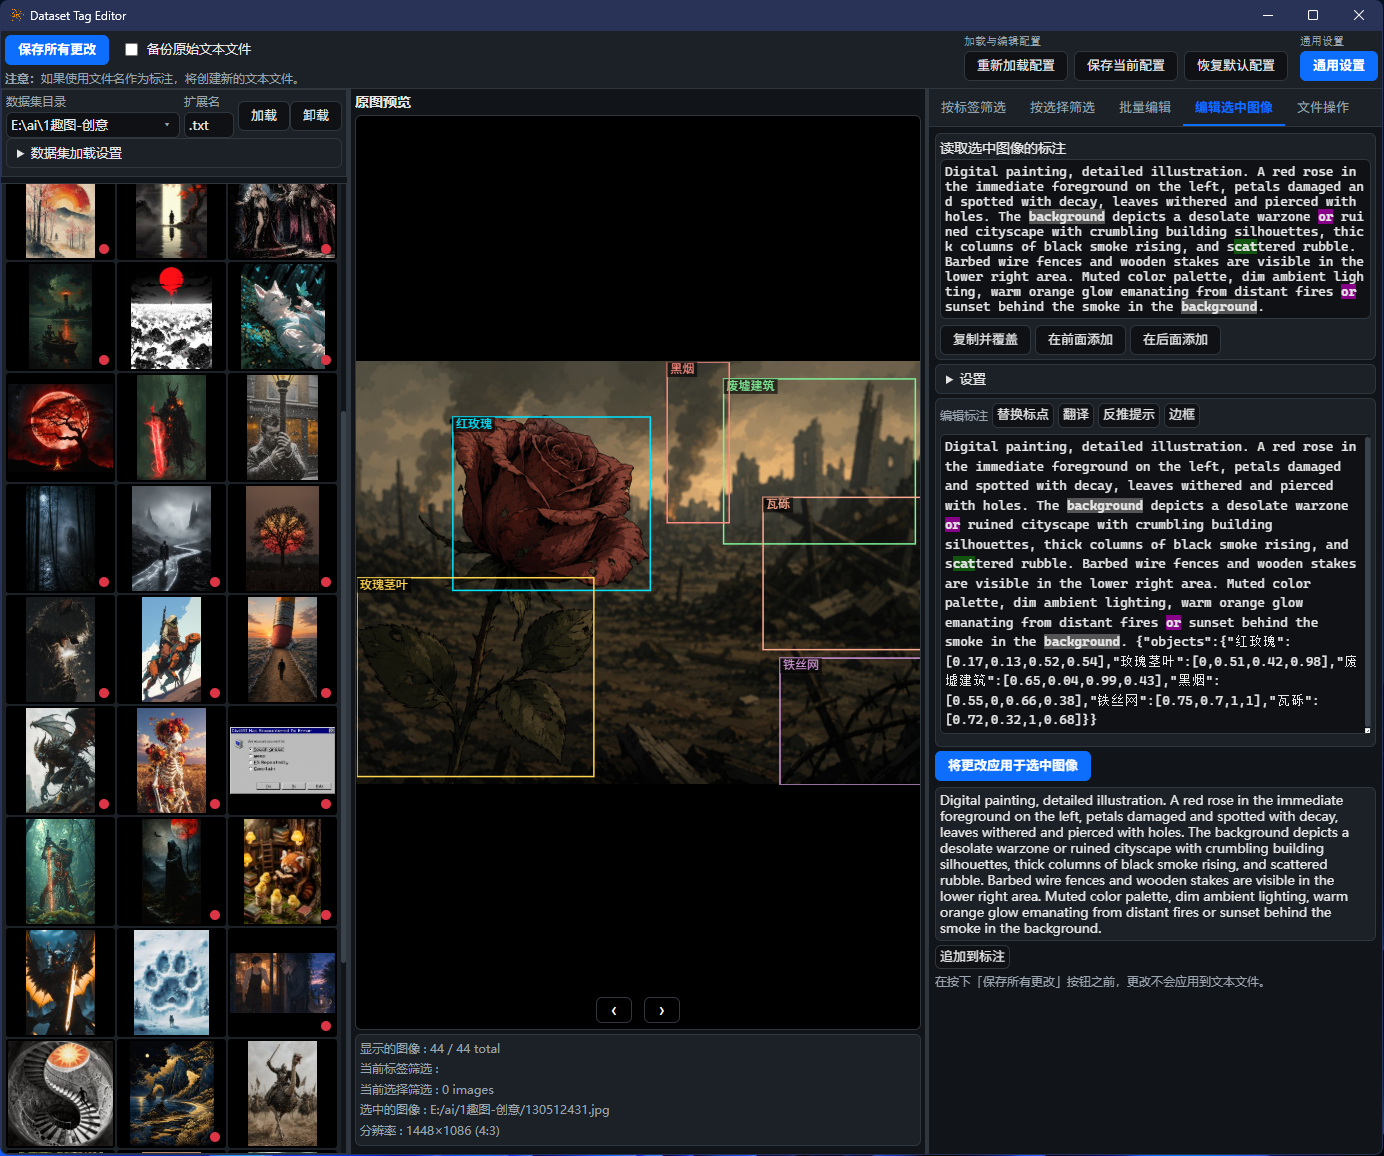
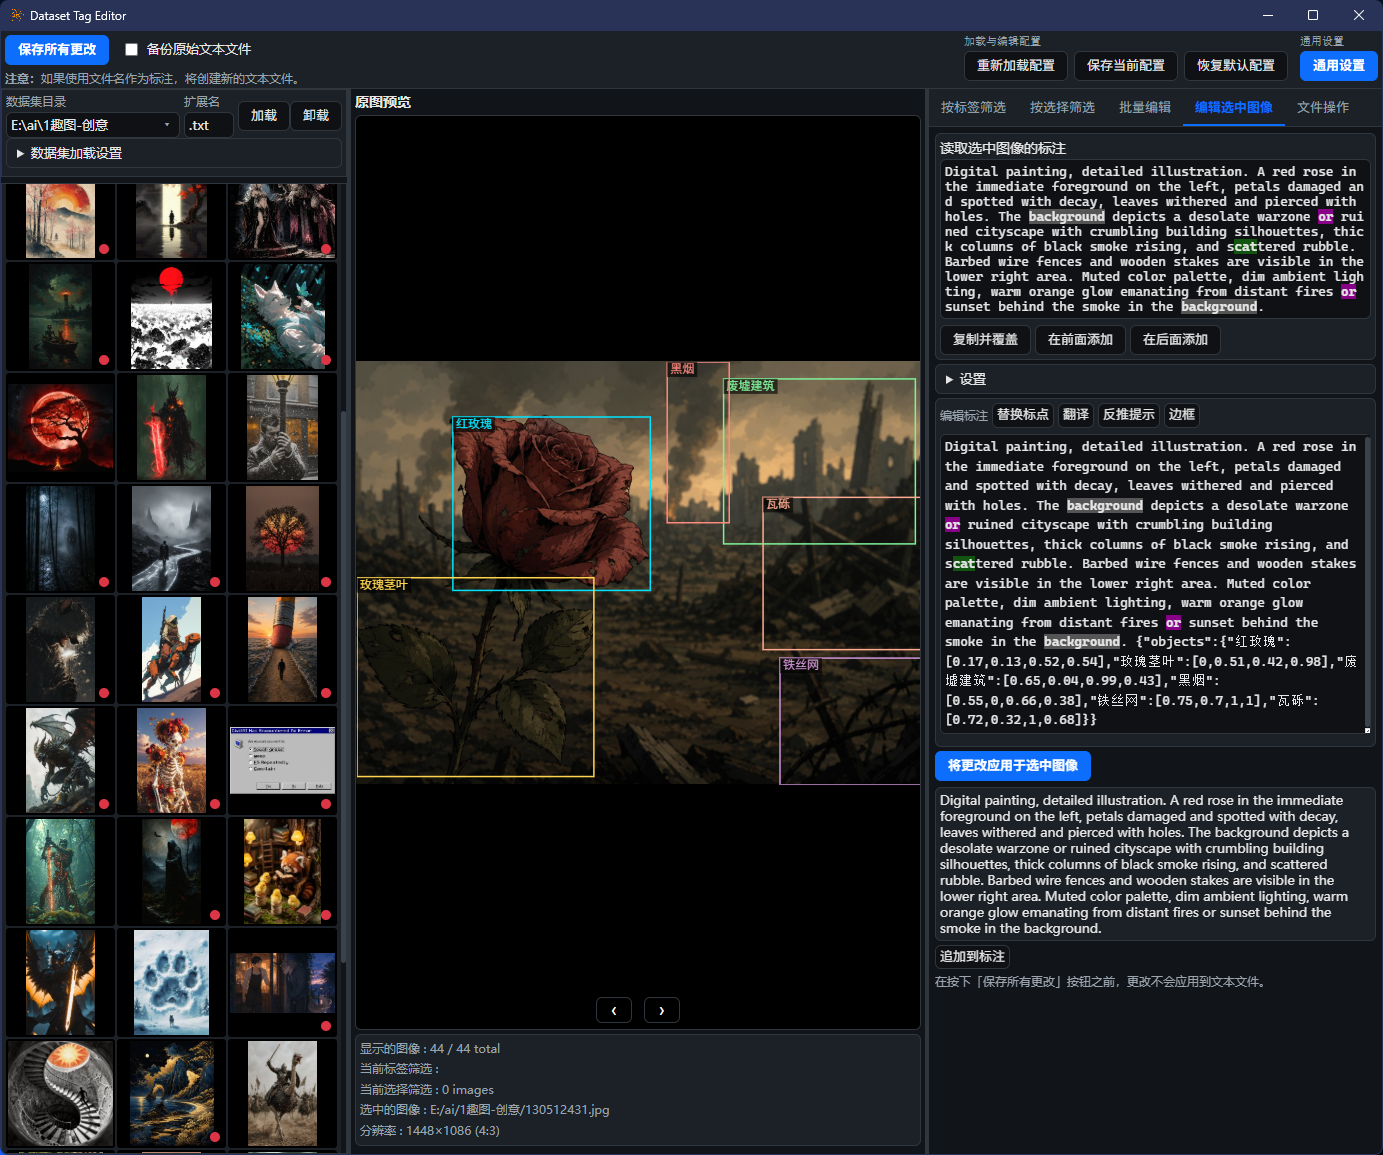
更新说明

diff --git a/readme.md b/readme.md
@@ -32,6 +32,8 @@
 
 标签编辑模式与json自动展开(现在有的模型支持粗略百分比边界框，不是id4格式，id4太麻烦，我不玩它。)
 ![alt text](other/sc-jn.png)  
+图像分桶裁剪预览  
+![alt text](other/sc-cj.png)
 
 进度管理与高亮规则编辑窗口    
 ![alt text](other/sc-hl.png)

diff --git a/readme-en.md b/readme-en.md
@@ -47,6 +47,9 @@ Tag editing mode & JSON auto expand (some current models support rough percentag
 
 ![alt text](other/sc-jn.png)
 
+Image bucketing cropping preview  
+![alt text](other/sc-cj.png)
+
 Progress management & highlight rule editing window
 
 ![alt text](other/sc-hl.png)

diff --git a/other/更新与发布说明.md b/other/更新与发布说明.md
@@ -17,6 +17,7 @@ llm回复追加到编辑框时自动移除json标记
 让翻译浮窗在更多地方生效  
 
 避免打开时程序白色背景闪屏  
+添加了分桶裁剪预览  
 添加了新的LLM配置示例  
 
 1.0
